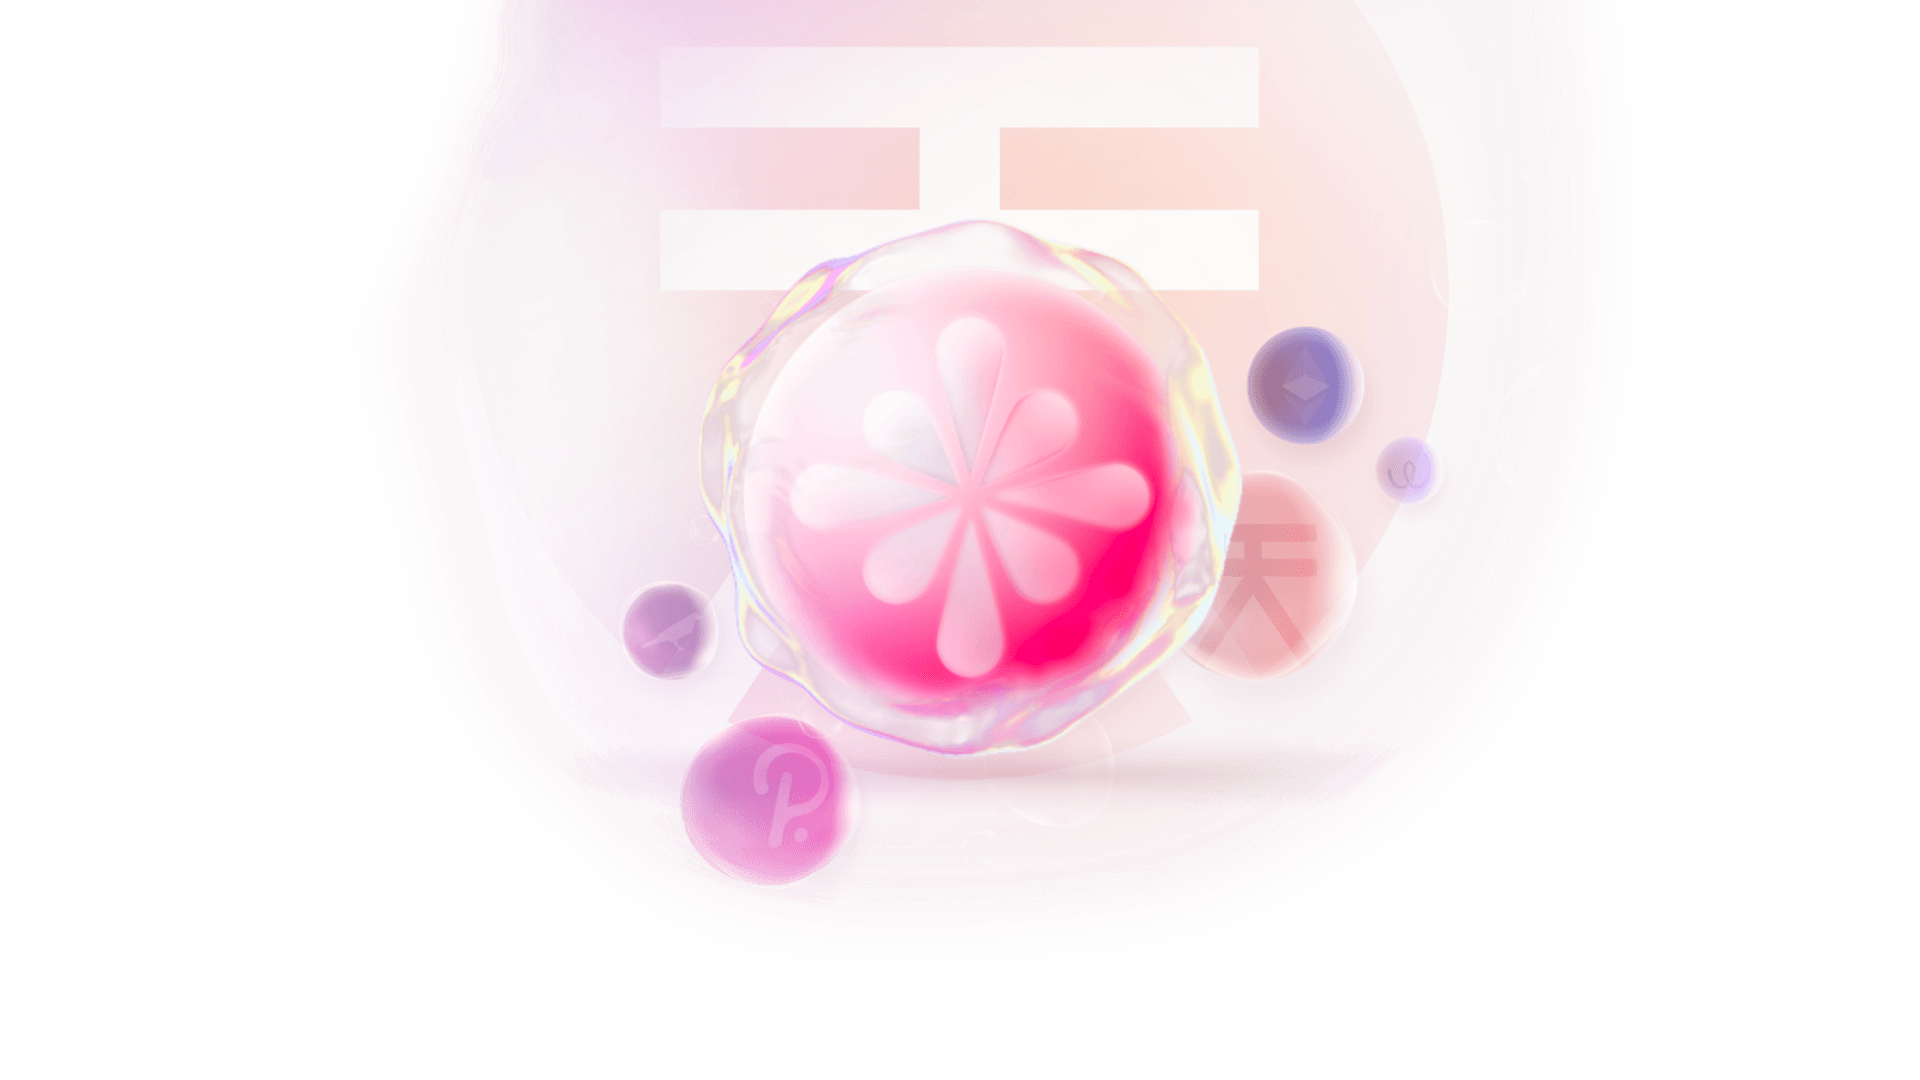
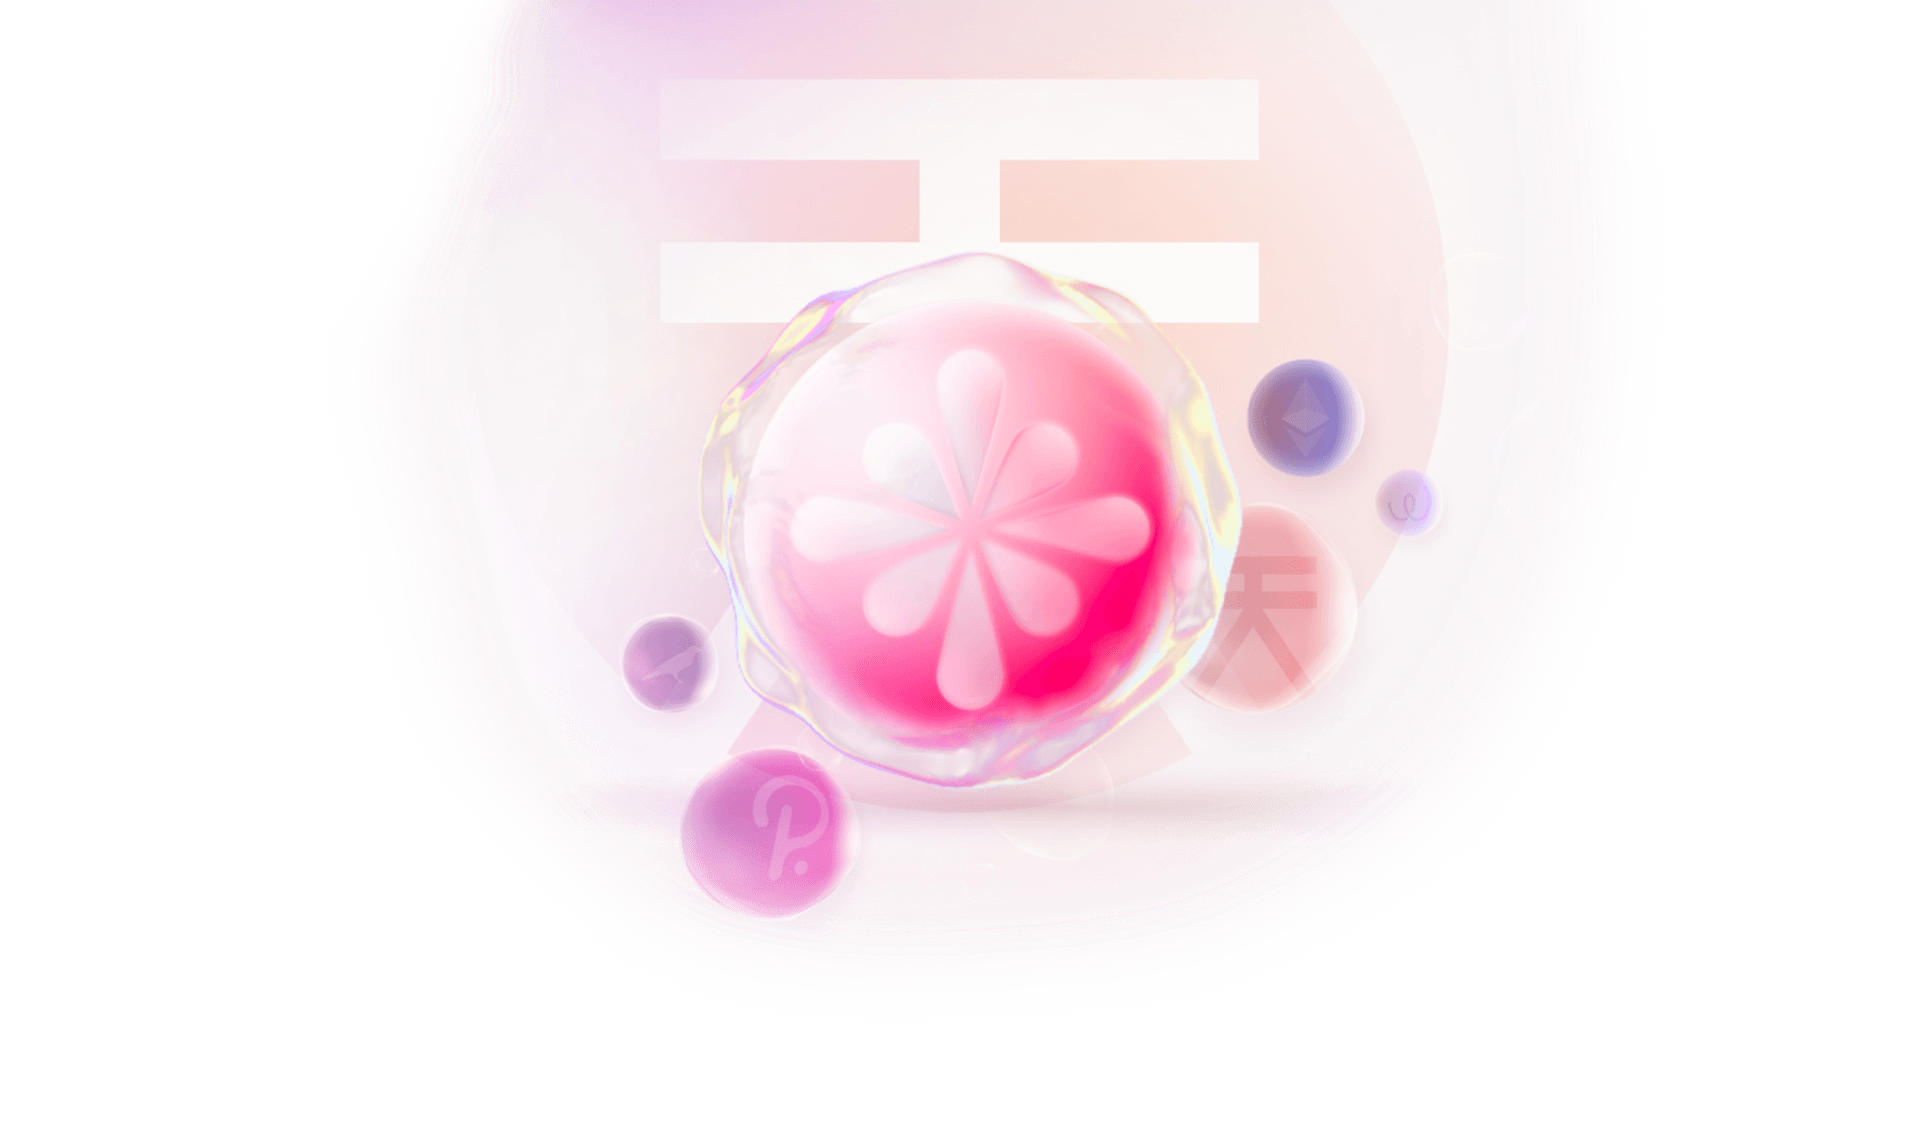
About page: Updated images and styles.

diff --git a/src/views/About.vue b/src/views/About.vue
@@ -21,9 +21,9 @@
       />
       <p class="gradient trading">{{ t('about.trading.title') }}</p>
       <p class="text" style="margin-top: 15px">{{ t('about.trading.first') }}</p>
-      <s-image :src="images.about02_1" lazy draggable="false" class="unselectable bubble-icon" style="height: 280px" />
+      <s-image :src="images.about02_1" lazy fit="initial" draggable="false" class="unselectable bubble-icon" />
       <p class="text">{{ t('about.trading.second') }}</p>
-      <s-image :src="images.about02_2" lazy draggable="false" class="unselectable bubble-icon" style="height: 280px" />
+      <s-image :src="images.about02_2" lazy fit="initial" draggable="false" class="unselectable bubble-icon" />
       <p class="text">
         {{ t('about.trading.third') }}
         <a
@@ -46,9 +46,9 @@
       />
       <p class="gradient liquidity">{{ t('about.liquidity.title') }}</p>
       <p class="text" style="margin-top: 15px">{{ t('about.liquidity.first') }}</p>
-      <s-image :src="images.about03_1" lazy draggable="false" class="unselectable bubble-icon" style="height: 280px" />
+      <s-image :src="images.about03_1" lazy fit="initial" draggable="false" class="unselectable bubble-icon" />
       <p class="text">{{ t('about.liquidity.second') }}</p>
-      <s-image :src="images.about03_2" lazy draggable="false" class="unselectable bubble-icon" style="height: 280px" />
+      <s-image :src="images.about03_2" lazy fit="initial" draggable="false" class="unselectable bubble-icon" />
       <p class="text">{{ t('about.liquidity.third') }}</p>
 
       <s-image
@@ -61,9 +61,9 @@
       />
       <p class="gradient swap">{{ t('about.swap.title') }}</p>
       <p class="text" style="margin-top: 15px">{{ t('about.swap.first') }}</p>
-      <s-image :src="images.about04_1" lazy draggable="false" class="unselectable bubble-icon" style="height: 280px" />
+      <s-image :src="images.about04_1" lazy fit="initial" draggable="false" class="unselectable bubble-icon" />
       <p class="text">{{ t('about.swap.second') }}</p>
-      <s-image :src="images.about04_2" lazy draggable="false" class="unselectable bubble-icon" style="height: 280px" />
+      <s-image :src="images.about04_2" lazy fit="initial" draggable="false" class="unselectable bubble-icon" />
       <p class="text">{{ t('about.swap.third') }}</p>
 
       <s-image
@@ -76,7 +76,7 @@
       />
       <p class="gradient pswap">{{ t('about.pswap.title') }}</p>
       <p class="text">{{ t('about.pswap.first') }}</p>
-      <s-image :src="images.about05_1" lazy draggable="false" class="unselectable bubble-icon" style="height: 281px" />
+      <s-image :src="images.about05_1" lazy fit="initial" draggable="false" class="unselectable bubble-icon" />
       <p class="text" style="margin-bottom: 120px">{{ t('about.pswap.second', { percent: feePercent }) }}</p>
 
       <div class="about-video" style="margin-bottom: 120px">
@@ -203,6 +203,12 @@ export default class About extends Mixins(TranslationMixin) {
       width: 100%;
     }
   }
+
+  .bubble-icon {
+    width: 150px;
+    margin-top: calc(var(--s-basic-spacing) * 2);
+    margin-bottom: calc(var(--s-basic-spacing) * -0.75);
+  }
 }
 </style>
 
@@ -247,14 +253,6 @@ export default class About extends Mixins(TranslationMixin) {
 .bubble-block {
   display: flex;
   align-items: center;
-
-  & > :first-child {
-    max-width: 120px;
-  }
-
-  .bubble-icon {
-    width: 30%;
-  }
 }
 
 .about {
@@ -602,9 +600,6 @@ export default class About extends Mixins(TranslationMixin) {
 
 .content p {
   max-width: 640px;
-}
-.content .s-image.bubble-icon {
-  margin: -60px;
 }
 
 .app-footer {
